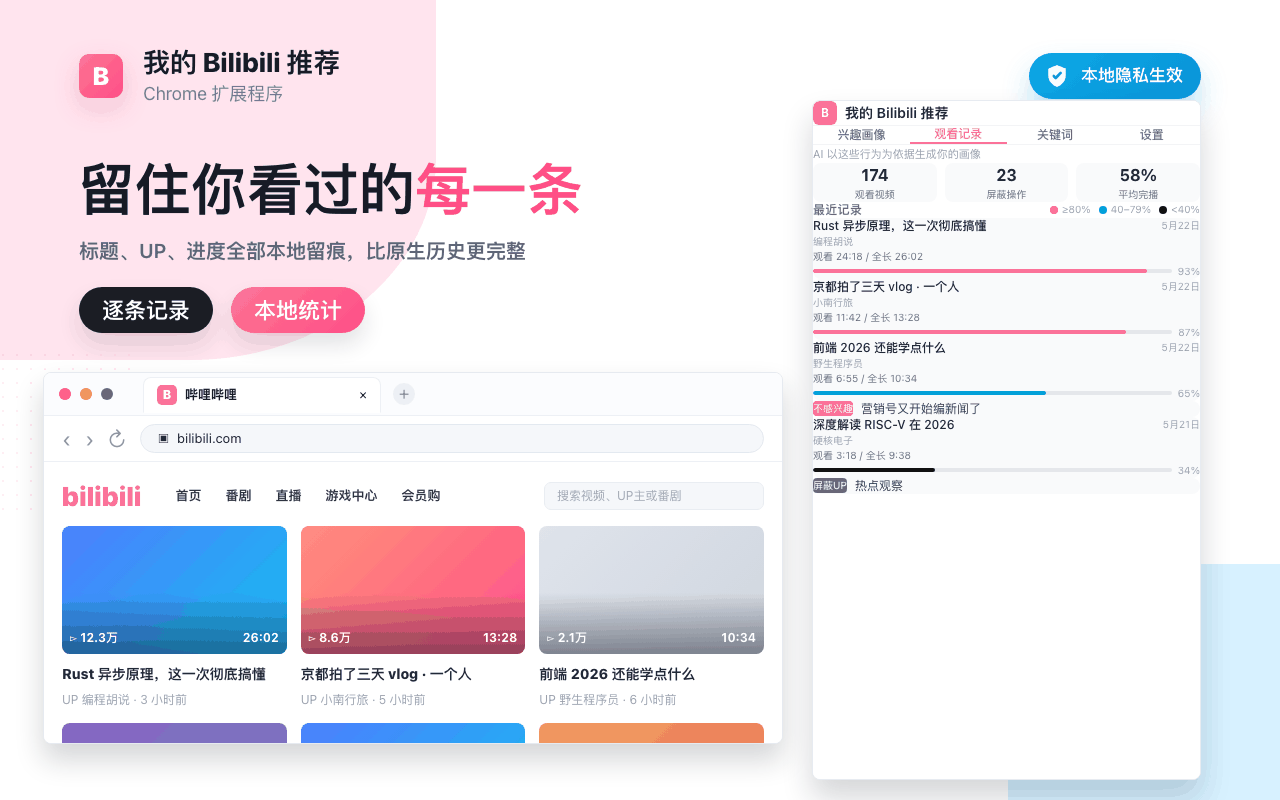
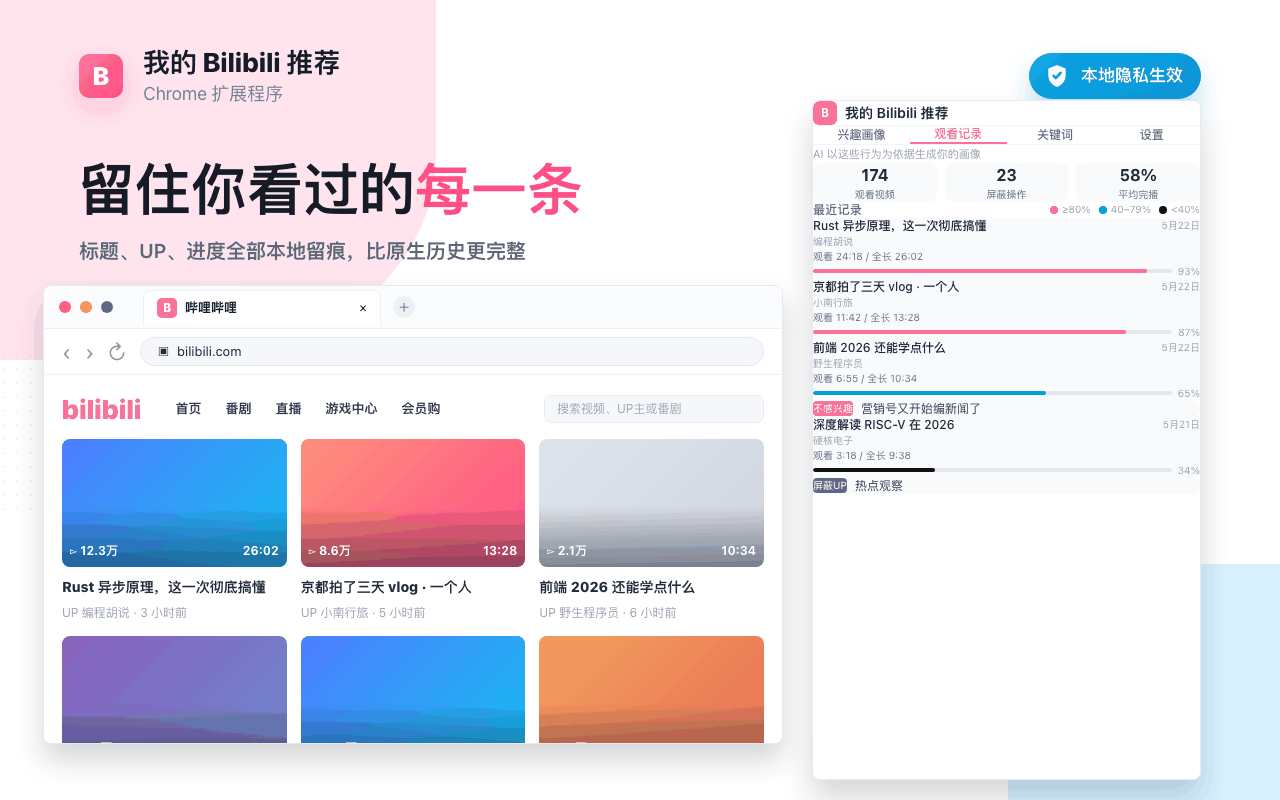
fix(promo): show all 6 recommend cards without clipping
BiliPage's hardcoded height: 283 clipped the second row of cards.
Removed the fixed height so it auto-sizes; bumped BrowserChrome height
to 459 in the scene so the frame contains the full 3×2 grid.

Changed region(s): [[0.0312, 0.3438, 0.5938, 0.9375]]

diff --git a/src/promo/scenes/history-insights.tsx b/src/promo/scenes/history-insights.tsx
@@ -99,7 +99,7 @@ export default function HistoryInsightsScene() {
       <BrowserChrome
         url="bilibili.com"
         tabTitle="哔哩哔哩"
-        style={{ left: 43, bottom: 56, width: 740, height: 372 }}
+        style={{ left: 43, bottom: 56, width: 740, height: 459 }}
       >
         <BiliPage cards={RECOMMEND_CARDS} />
       </BrowserChrome>

diff --git a/src/promo/components/bilibili/BiliPage.tsx b/src/promo/components/bilibili/BiliPage.tsx
@@ -7,7 +7,6 @@ import VideoCard, { type VideoCardData } from './VideoCard'
 export default function BiliPage({ cards }: { cards: VideoCardData[] }) {
   return (
     <div style={{
-      height: 283,
       padding: '20px 18px 18px',
       background: '#ffffff',
     }}>
